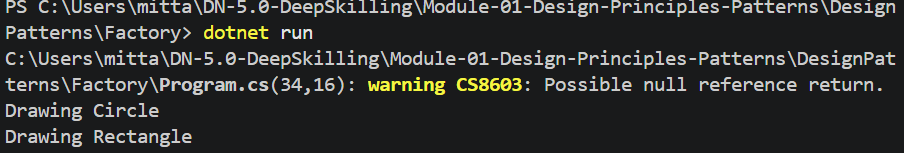
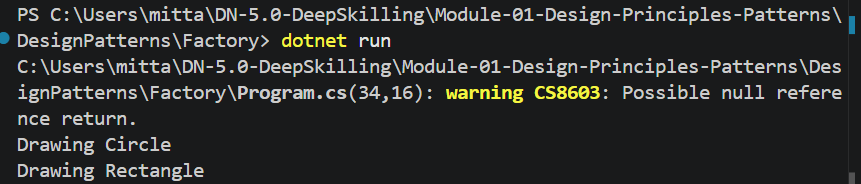
Completed Factory Pattern

diff --git a/Module-01-Design-Principles-Patterns/DesignPatterns/Factory/obj/Debug/net11.0/Factory.AssemblyInfo.cs b/Module-01-Design-Principles-Patterns/DesignPatterns/Factory/obj/Debug/net11.0/Factory.AssemblyInfo.cs
@@ -13,7 +13,7 @@ using System.Reflection;
 [assembly: System.Reflection.AssemblyCompanyAttribute("Factory")]
 [assembly: System.Reflection.AssemblyConfigurationAttribute("Debug")]
 [assembly: System.Reflection.AssemblyFileVersionAttribute("1.0.0.0")]
-[assembly: System.Reflection.AssemblyInformationalVersionAttribute("1.0.0+27d028147a1023cfb4f6dbfa9e0cbfd74667651c")]
+[assembly: System.Reflection.AssemblyInformationalVersionAttribute("1.0.0+2e33dc00d0a6986370a552d56f0fd892ec03c6fa")]
 [assembly: System.Reflection.AssemblyProductAttribute("Factory")]
 [assembly: System.Reflection.AssemblyTitleAttribute("Factory")]
 [assembly: System.Reflection.AssemblyVersionAttribute("1.0.0.0")]